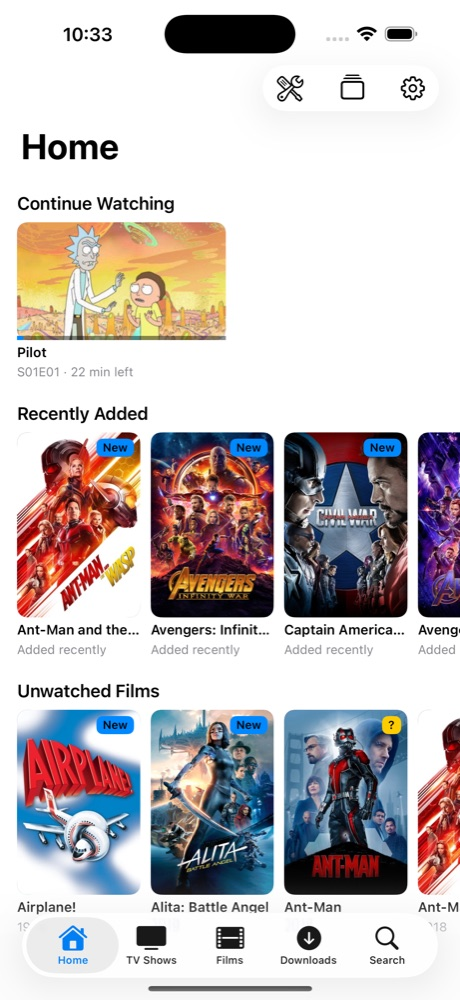
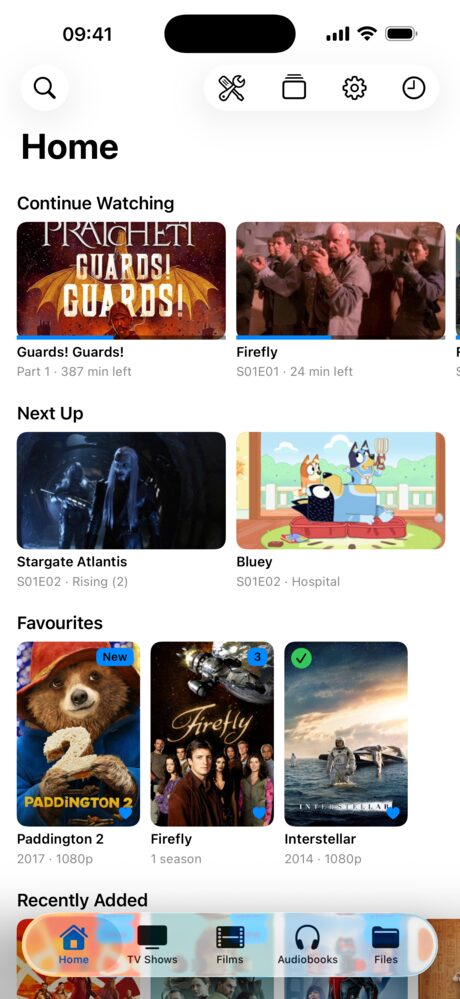
New iPhone screenshots: web, raw and framed 6.1 and 6.9 sets with an audiobooks shot; reel://open/history works on the phone

diff --git a/docs/index.html b/docs/index.html
@@ -36,6 +36,8 @@
   <a href="screenshots/iphone-04-show.jpg"><img src="screenshots/iphone-04-show.jpg" alt="A show page on iPhone"></a>
   <a href="screenshots/iphone-05-film.jpg"><img src="screenshots/iphone-05-film.jpg" alt="A film page on iPhone"></a>
   <a href="screenshots/iphone-07-player.jpg"><img src="screenshots/iphone-07-player.jpg" alt="The player on iPhone"></a>
+  <a href="screenshots/iphone-09-audiobooks.jpg"><img src="screenshots/iphone-09-audiobooks.jpg" alt="Audiobooks on iPhone, by author and series"></a>
+  <a href="screenshots/iphone-11-search.jpg"><img src="screenshots/iphone-11-search.jpg" alt="Search on iPhone finding films and books"></a>
 </div>
 <h2>Try it without a server</h2>
 <p>The first screen offers a sample library: three short films and a show built into the app, so you can see how it works before adding a share.</p>

diff --git a/Reel/App/AppNavigation.swift b/Reel/App/AppNavigation.swift
@@ -73,6 +73,8 @@ enum DeepLinks {
             switch arg {
             case "collections": nav.show(.home); Task { @MainActor in try? await Task.sleep(for: .milliseconds(400)); nav.open(route: .collections) }
             case "favourites": nav.show(.home); Task { @MainActor in try? await Task.sleep(for: .milliseconds(400)); nav.open(route: .favourites) }
+            // History is a sidebar section on the iPad and a page over Home on the phone.
+            case "history" where nav.searchIsAPage: nav.show(.home); Task { @MainActor in try? await Task.sleep(for: .milliseconds(400)); nav.open(route: .history) }
             case "settings": nav.show(.settings)
             default: if let s = AppSection(rawValue: arg) { nav.show(s) } else { return false }
             }

diff --git a/HANDOVER.md b/HANDOVER.md
@@ -489,7 +489,9 @@ chosen edition in full. New item fields `asin` and `bookLookup` sync.
 ## Screenshots (31 Oct 2026)
 
 The iPad set in `docs/screenshots`, `docs/app-store/screenshots/raw` and the framed `ipad-13` set
-were retaken on the iPad Pro 13-inch simulator (light mode, status bar overridden to 9:41). The
+were retaken on the iPad Pro 13-inch simulator (light mode, status bar overridden to 9:41), and the
+iPhone sets on the iPhone 17 Pro Max (raw and 6.9") and iPhone 17 Pro (6.1"); `seed.sh`, `finish.sh`
+and `shoot.sh` in that session's scratchpad did the seeding and the walk, as described here. The
 library is a stand-in corpus, since the old WebDAV test library is gone: ffmpeg clips from the
 demo backdrops named like real films and episodes, and tiny tagged `.m4b` files for the books, in
 a scratchpad folder served by wsgidav on 127.0.0.1:8080 without a password. The scanner reads only
